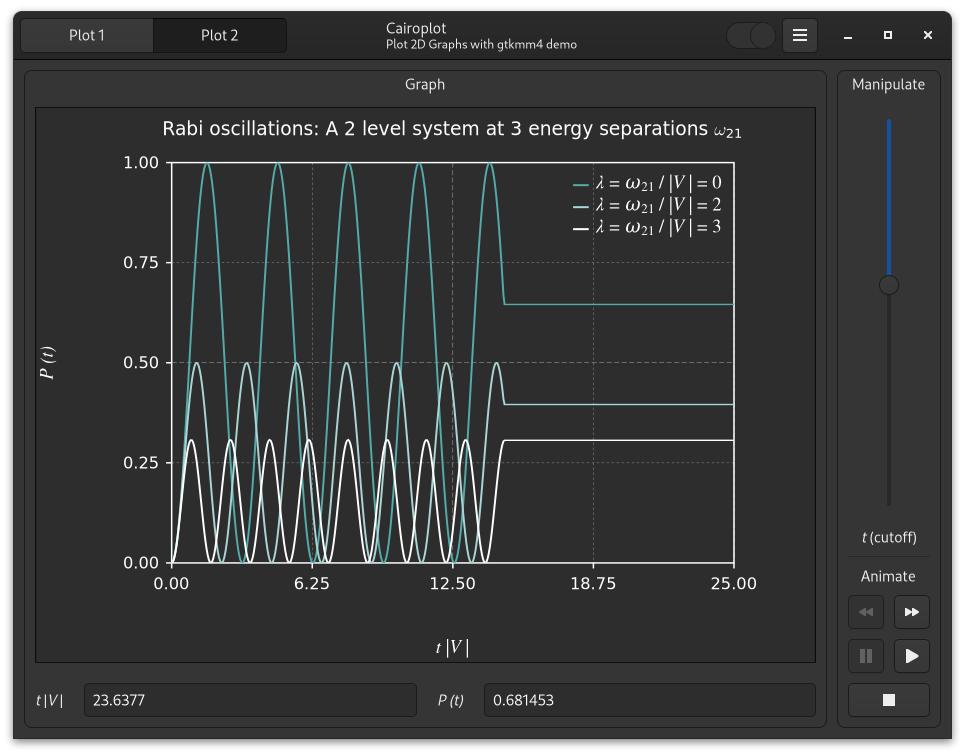
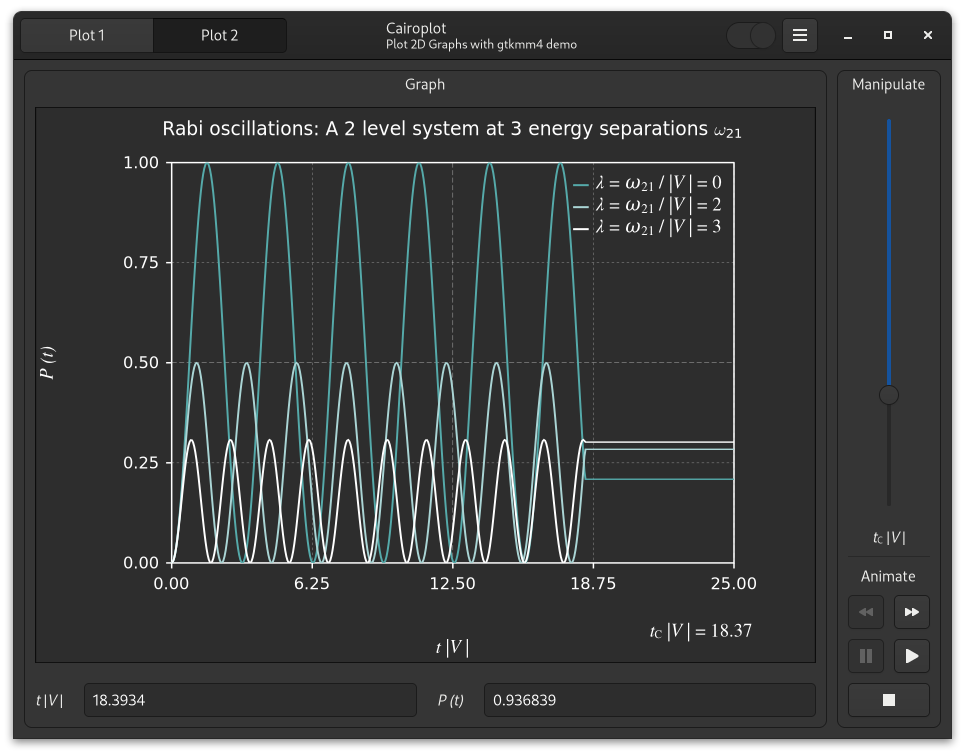
Add option to set text object font.

diff --git a/src/cairoplot-window.cpp b/src/cairoplot-window.cpp
@@ -18,6 +18,8 @@
 
 #include "cairoplot-window.hpp"
 #include <iostream>
+#include <iomanip>
+#include <glibmm/ustring.h>
 #include <gtkmm/settings.h>
 #include <gtkmm/messagedialog.h>
 
@@ -334,6 +336,8 @@ CairoplotWindow::CairoplotWindow(const Glib::RefPtr<Gtk::Application>& app)
 	scale2.set_vexpand(true);
 	scale2.set_range(3 * M_PI, 7 * M_PI);
 	scale2.set_show_fill_level(true);
+	scale2.set_tooltip_markup
+	(_("The time (in dimensionless units of <i>t</i><sub>C</sub> |<i>V</i> | ) the perturbation is switched off."));
 
 	scalecon2 = scale2.signal_value_changed().connect((sigc::track_obj([this](){
 		if (!is_animation) make_plot2();
@@ -369,7 +373,9 @@ CairoplotWindow::CairoplotWindow(const Glib::RefPtr<Gtk::Application>& app)
 	button_reset.set_sensitive(true);
 	button_reset.set_tooltip_text(_("Stop the animation and restore defaults."));
 
-	scalelabel2.set_markup(_("<i>t</i> (cutoff)"));
+	scalelabel2.set_markup(_("<i>t</i><sub>C</sub> |<i>V</i> |"));
+	scalelabel2.set_tooltip_markup
+	(_("The time (in dimensionless units of <i>t</i><sub>C</sub> |<i>V</i> | ) the perturbation is switched off."));
 	
 	grid2.attach(graph2->create_graph(), 0, 0, 10, 7);
 	controlgrid2.set_row_spacing(10);
@@ -493,7 +499,7 @@ void CairoplotWindow::about()
 	aboutdialog->set_program_name(_("Cairo plot"));
 	aboutdialog->set_version("0.3.0");
 	aboutdialog->set_copyright("Alexander Borro");
-	aboutdialog->set_comments(_("Plotting 2D graphs using gtkmm-4.0 and Cairomm-1.16."));
+	aboutdialog->set_comments(_("Plotting 2D graphs using gtkmm-4.0.4 and Cairomm-1.16."));
 	aboutdialog->set_license("GPL v3.0    http://www.gnu.org/licenses");
 	aboutdialog->set_website("http://www.gtkmm.org");
 	aboutdialog->set_website_label("gtkmm website");
@@ -623,11 +629,22 @@ bool CairoplotWindow::make_plot2()
 	legends[1] = "<i>λ</i> = 𝜔<sub>21</sub> / |<i>V</i> | = 2";
 	legends[2] = "<i>λ</i> = 𝜔<sub>21</sub> / |<i>V</i> | = 3";
 
-	graph2->add_multi_series(xseries, yseries); 	// Copy data for the example. 
+	graph2->add_multi_series(xseries, yseries); // Copy data for the example. 
 											    // We can also pass by reference with make_copy = false
 
 	graph2->add_multi_legends(legends, 0.7);
+
+	std::vector<std::tuple<Glib::ustring, double, double, double, bool>> textobject(1U);
+	std::get<0>(textobject[0]) = Glib::ustring("<i>t</i><sub>C</sub> |<i>V</i> | = ") +
+	                             Glib::ustring::format(std::fixed, std::setprecision(2), scale2.get_value()); 
+	std::get<1>(textobject[0]) = 0.85;
+	std::get<2>(textobject[0]) = 1.20;
+	std::get<3>(textobject[0]) = 1.0;
+	std::get<4>(textobject[0]) = false;
+
+	graph2->add_text_objects(textobject, _("Nimbus Roman"));
 	graph2->update_graph();
+	
 	if (is_animation)
 	{
 		if (scale2.get_value() >= 7 * M_PI)

diff --git a/subprojects/libcairoplot/plotteroptions.cpp b/subprojects/libcairoplot/plotteroptions.cpp
@@ -179,7 +179,8 @@ void CGraph::CairoGraph::add_multi_legends(const std::vector<Glib::ustring> &leg
     legend_offsety = offsety * GRAPH_HEIGHT;
 }
 
-void CGraph::CairoGraph::add_text_objects(const std::vector<std::tuple<Glib::ustring, double, double, double, bool> >& text)
+void CGraph::CairoGraph::add_text_objects(const std::vector<std::tuple<Glib::ustring, double, double, double, bool> >& text,
+                                          Glib::ustring text_object_fontfamily)
 {
     //! Add a text object to the graph
     //! string: text
@@ -187,6 +188,8 @@ void CGraph::CairoGraph::add_text_objects(const std::vector<std::tuple<Glib::ust
     //! double y with respect to the graph box top left corner
     //! double scale text
     //! bool: Flag to show text if the graph is zoomed: true shows text at all zoom levels. False only shows text when NOT zoomed.
+    //! string: Optional specification for font family
 
-    for (auto &i : text) text_objects.emplace_back(i);  
+    for (auto &i : text) text_objects.emplace_back(i);
+    text_object_font_family = text_object_fontfamily;
 }

diff --git a/subprojects/libcairoplot/plotter.hpp b/subprojects/libcairoplot/plotter.hpp
@@ -122,7 +122,8 @@ namespace CGraph
         void set_graph_box_style(const CairoGraphBoxStyle style);
         void set_title(const Glib::ustring &title);
         void set_theme(const Glib::ustring &theme, bool automatic = true);
-        void add_text_objects(const std::vector<std::tuple<Glib::ustring, double, double, double, bool> >& text);
+        void add_text_objects(const std::vector<std::tuple<Glib::ustring, double, double, double, bool> >& text,
+                              Glib::ustring text_object_fontfamily = "");
 
     private:
         double lwidth = 1.0; // default line width
@@ -175,6 +176,7 @@ namespace CGraph
         CairoGraphBoxStyle graphboxstyle;
         CairoGraphPos legend_pos;
         Glib::ustring current_theme;
+        Glib::ustring text_object_font_family;
         Gtk::Grid *grid;
         Gtk::Grid *cursor_grid;
         Gtk::Entry *xvalue;

diff --git a/subprojects/libcairoplot/plotterlabels.cpp b/subprojects/libcairoplot/plotterlabels.cpp
@@ -367,6 +367,7 @@ void CGraph::CairoGraph::create_labels(const Cairo::RefPtr<Cairo::Context> &cr)
    for (auto &i : text_objects)
    {
         Pango::FontDescription text_font;
+        if (text_object_font_family.length()) text_font.set_family(text_object_font_family);
         Glib::ustring text = std::get<0>(i);
         double x = std::get<1>(i) * GRAPH_WIDTH + OFFSET_X;
         double y = std::get<2>(i) * GRAPH_HEIGHT + OFFSET_Y;

diff --git a/subprojects/libcairoplot/plotterseries.cpp b/subprojects/libcairoplot/plotterseries.cpp
@@ -178,6 +178,7 @@ void CGraph::CairoGraph::clear_series()
 {
     xmax = ymax = std::numeric_limits<double>::min();
     xmin = ymin = std::numeric_limits<double>::max();
+    text_object_font_family = "";
     seriescolour.clear();
     serieslinestyle.clear();
     graph_legend.clear();

diff --git a/README.md b/README.md
@@ -1,7 +1,16 @@
-### CairoPlot- Plotting with Cairo and GTKMM4
-CairoPlot is a small library I developed to make 2D static and animated Plots in gtkmm4 applications. It is used in my TCalc project. This is a small demo of what can de done with gtkmm and cairomm,  it shows how the library can be utilised. It helps if you have Nimbus Roman fonts installed if you desire a TeX like style for graph legends.
+### CairoPlot - Plotting with Cairo and GTKMM4
 
 Note: This is gtkmm4 version. If you wish to use the older gtkmm3 version git checkout  the cairoplot-gtkmm3 branch.
+
+CairoPlot is a small library I developed to make 2D static and animated Plots in gtkmm4 applications. It is used in my TCalc project. This is a small demo of what can de done with gtkmm and cairomm,  it shows how the library can be utilised. It helps if you have the Nimbus Roman fonts installed if you desire a TeX like style for graph legends as shown in the screen shots..
+
+#### Static plots
+
+<img src="screenshots/cairo-multiple-graphs.png">
+
+#### Animated plots
+
+<img src="screenshots/cairograph-demo.png">
 
 ### Required packages
 
@@ -13,6 +22,7 @@ For building the demo following packages are required.
 * appstream-util
 * gtkmm 4.0.2 or greater development libraries
 * meson
+* Nimbus Roman font family
 * ninja build system
 ```
 Consult/search your distribution for the above packages and install them if required. in Fedora 35 it would typically involve
@@ -27,9 +37,11 @@ If in doubt use dnf search to find them
 ```
 dnf search gtkmm
 dnf search appstream
+dnf search nimbus
 ```
 
-etc. 
+etc. On Ubuntu based system use apt to obtain the relevant packages.
+
 ### Building the software
 ```
 git clone https://github.com/AlexB67/CairoPlot.git
@@ -50,11 +62,6 @@ Installation is not required.
 
 ### Supported features
 Multiple and single plots are supported in a single graph.
-
-<img src="screenshots/cairo-multiple-graphs.png">
-
 With a little work Wolfram Mathematica Manipulate/Animate style plots can also be produced. See the source code for details.
 
 Enjoy.
-
-<img src="screenshots/cairograph-demo.png">
